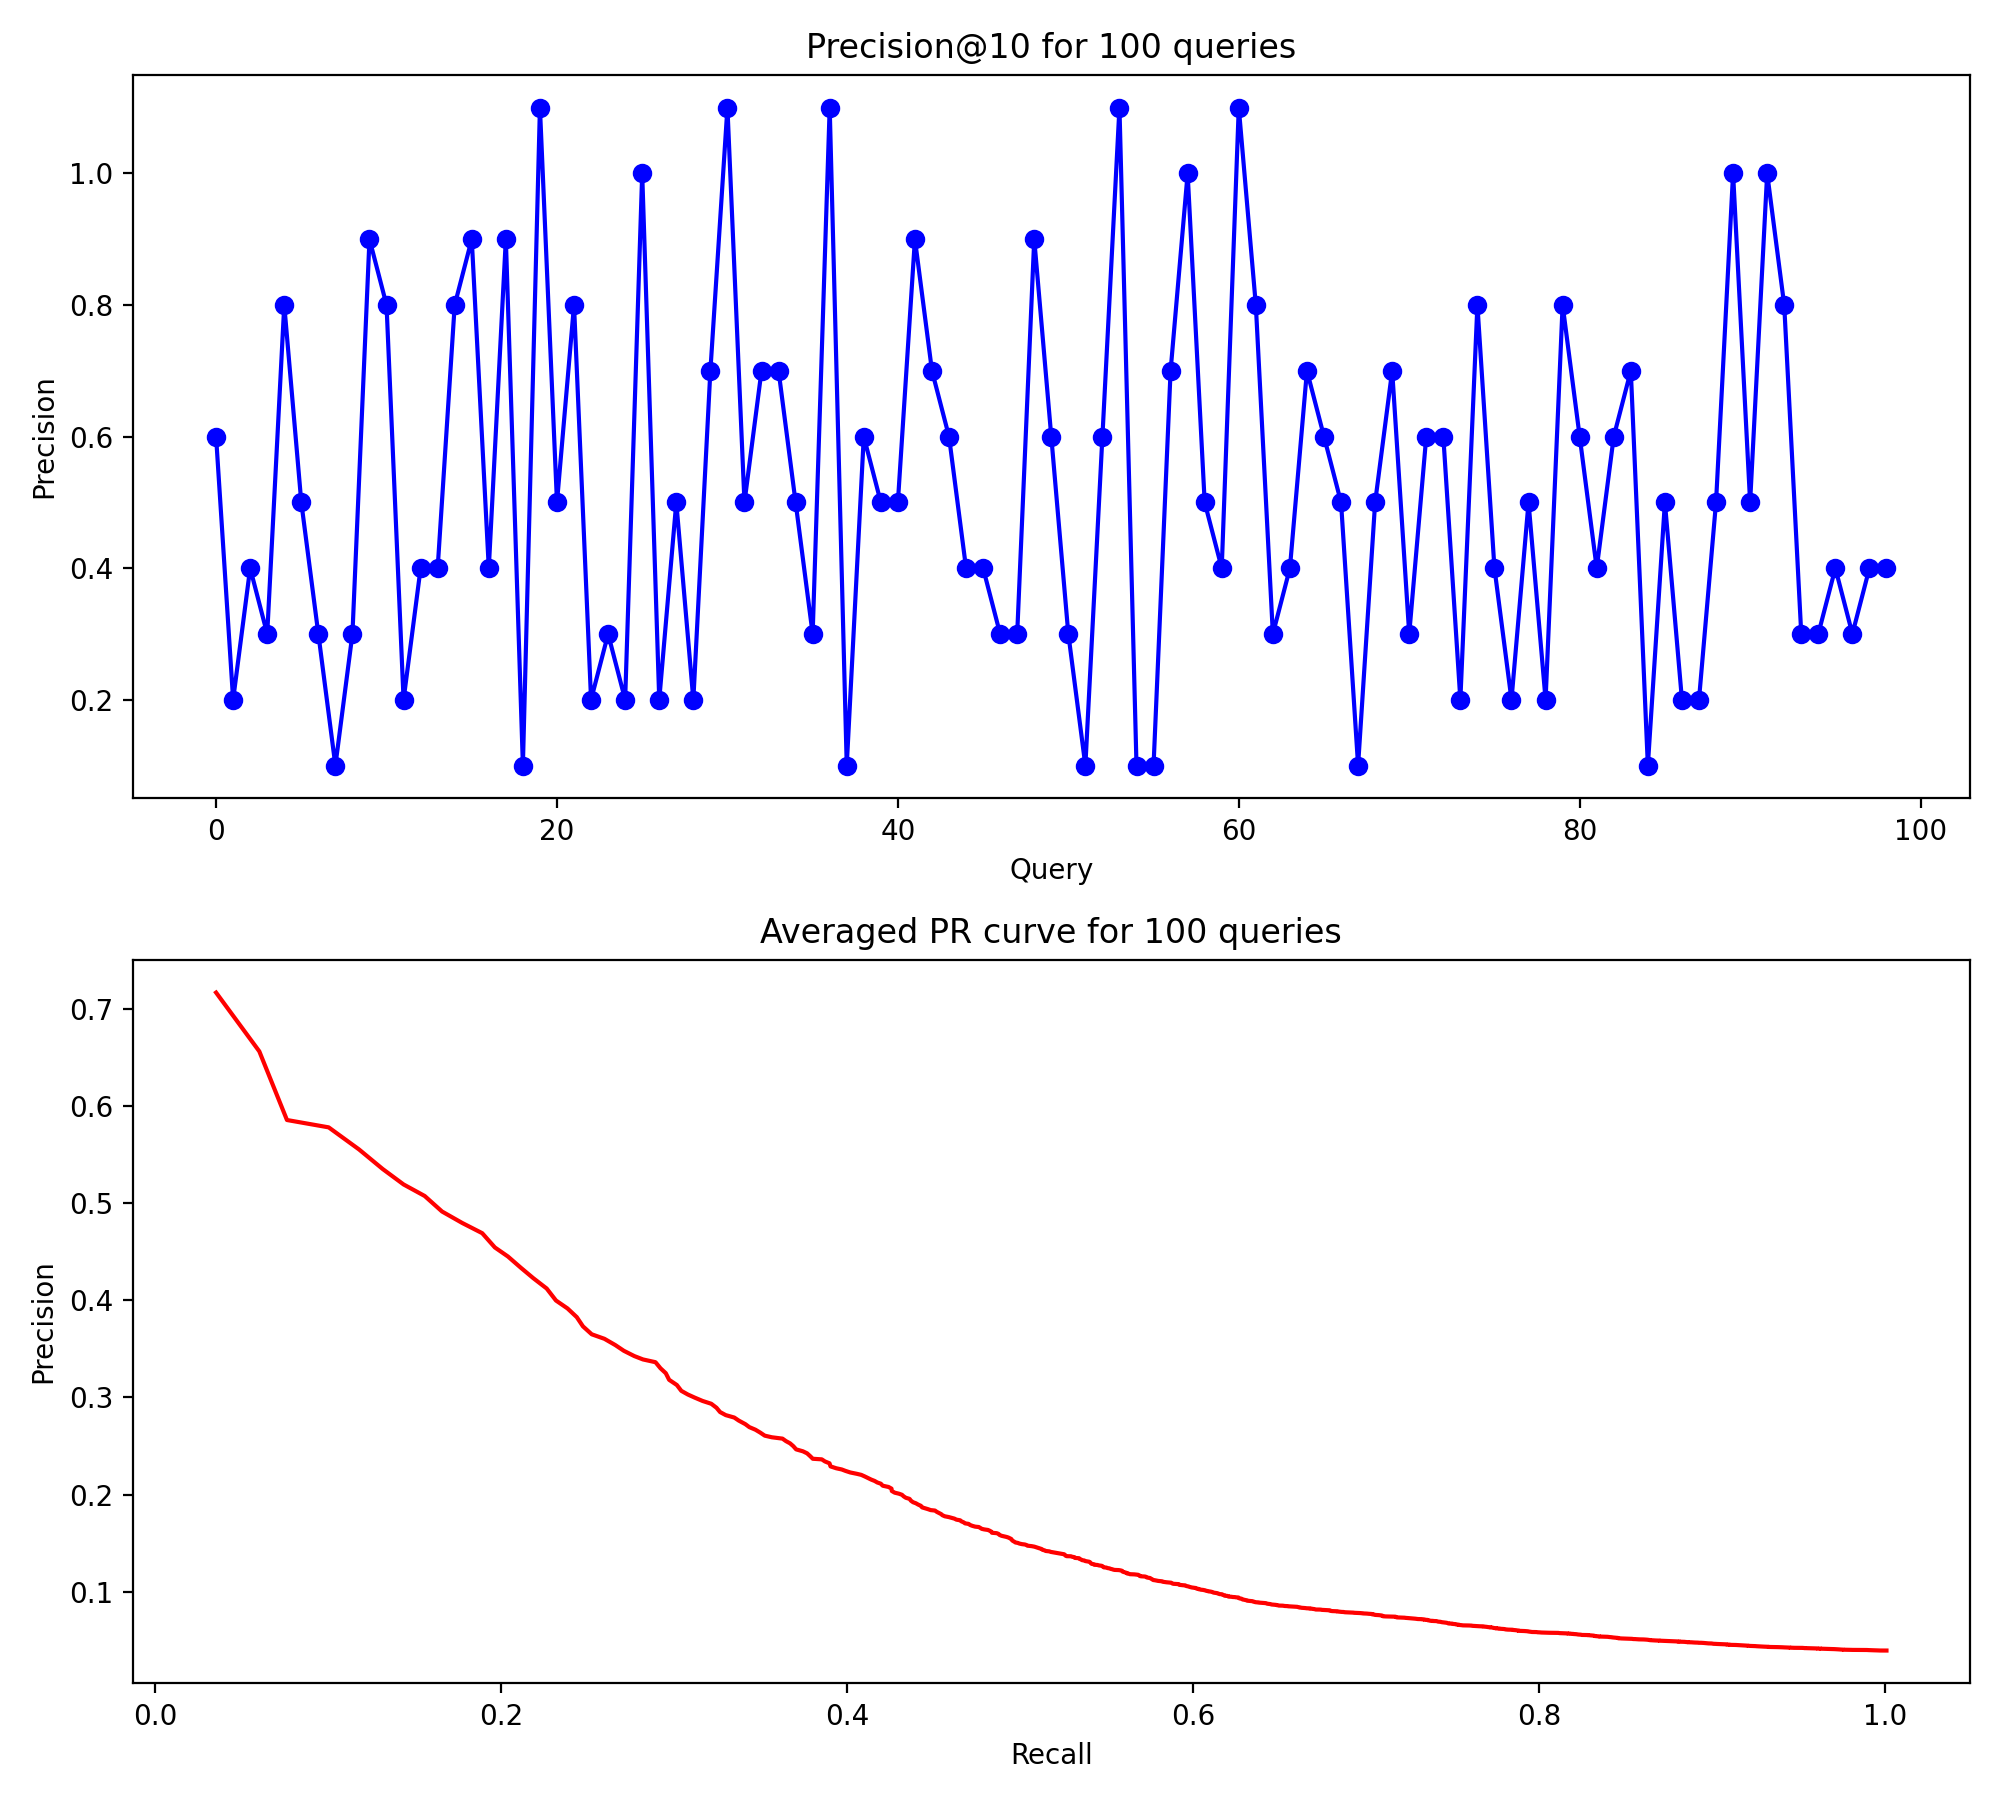
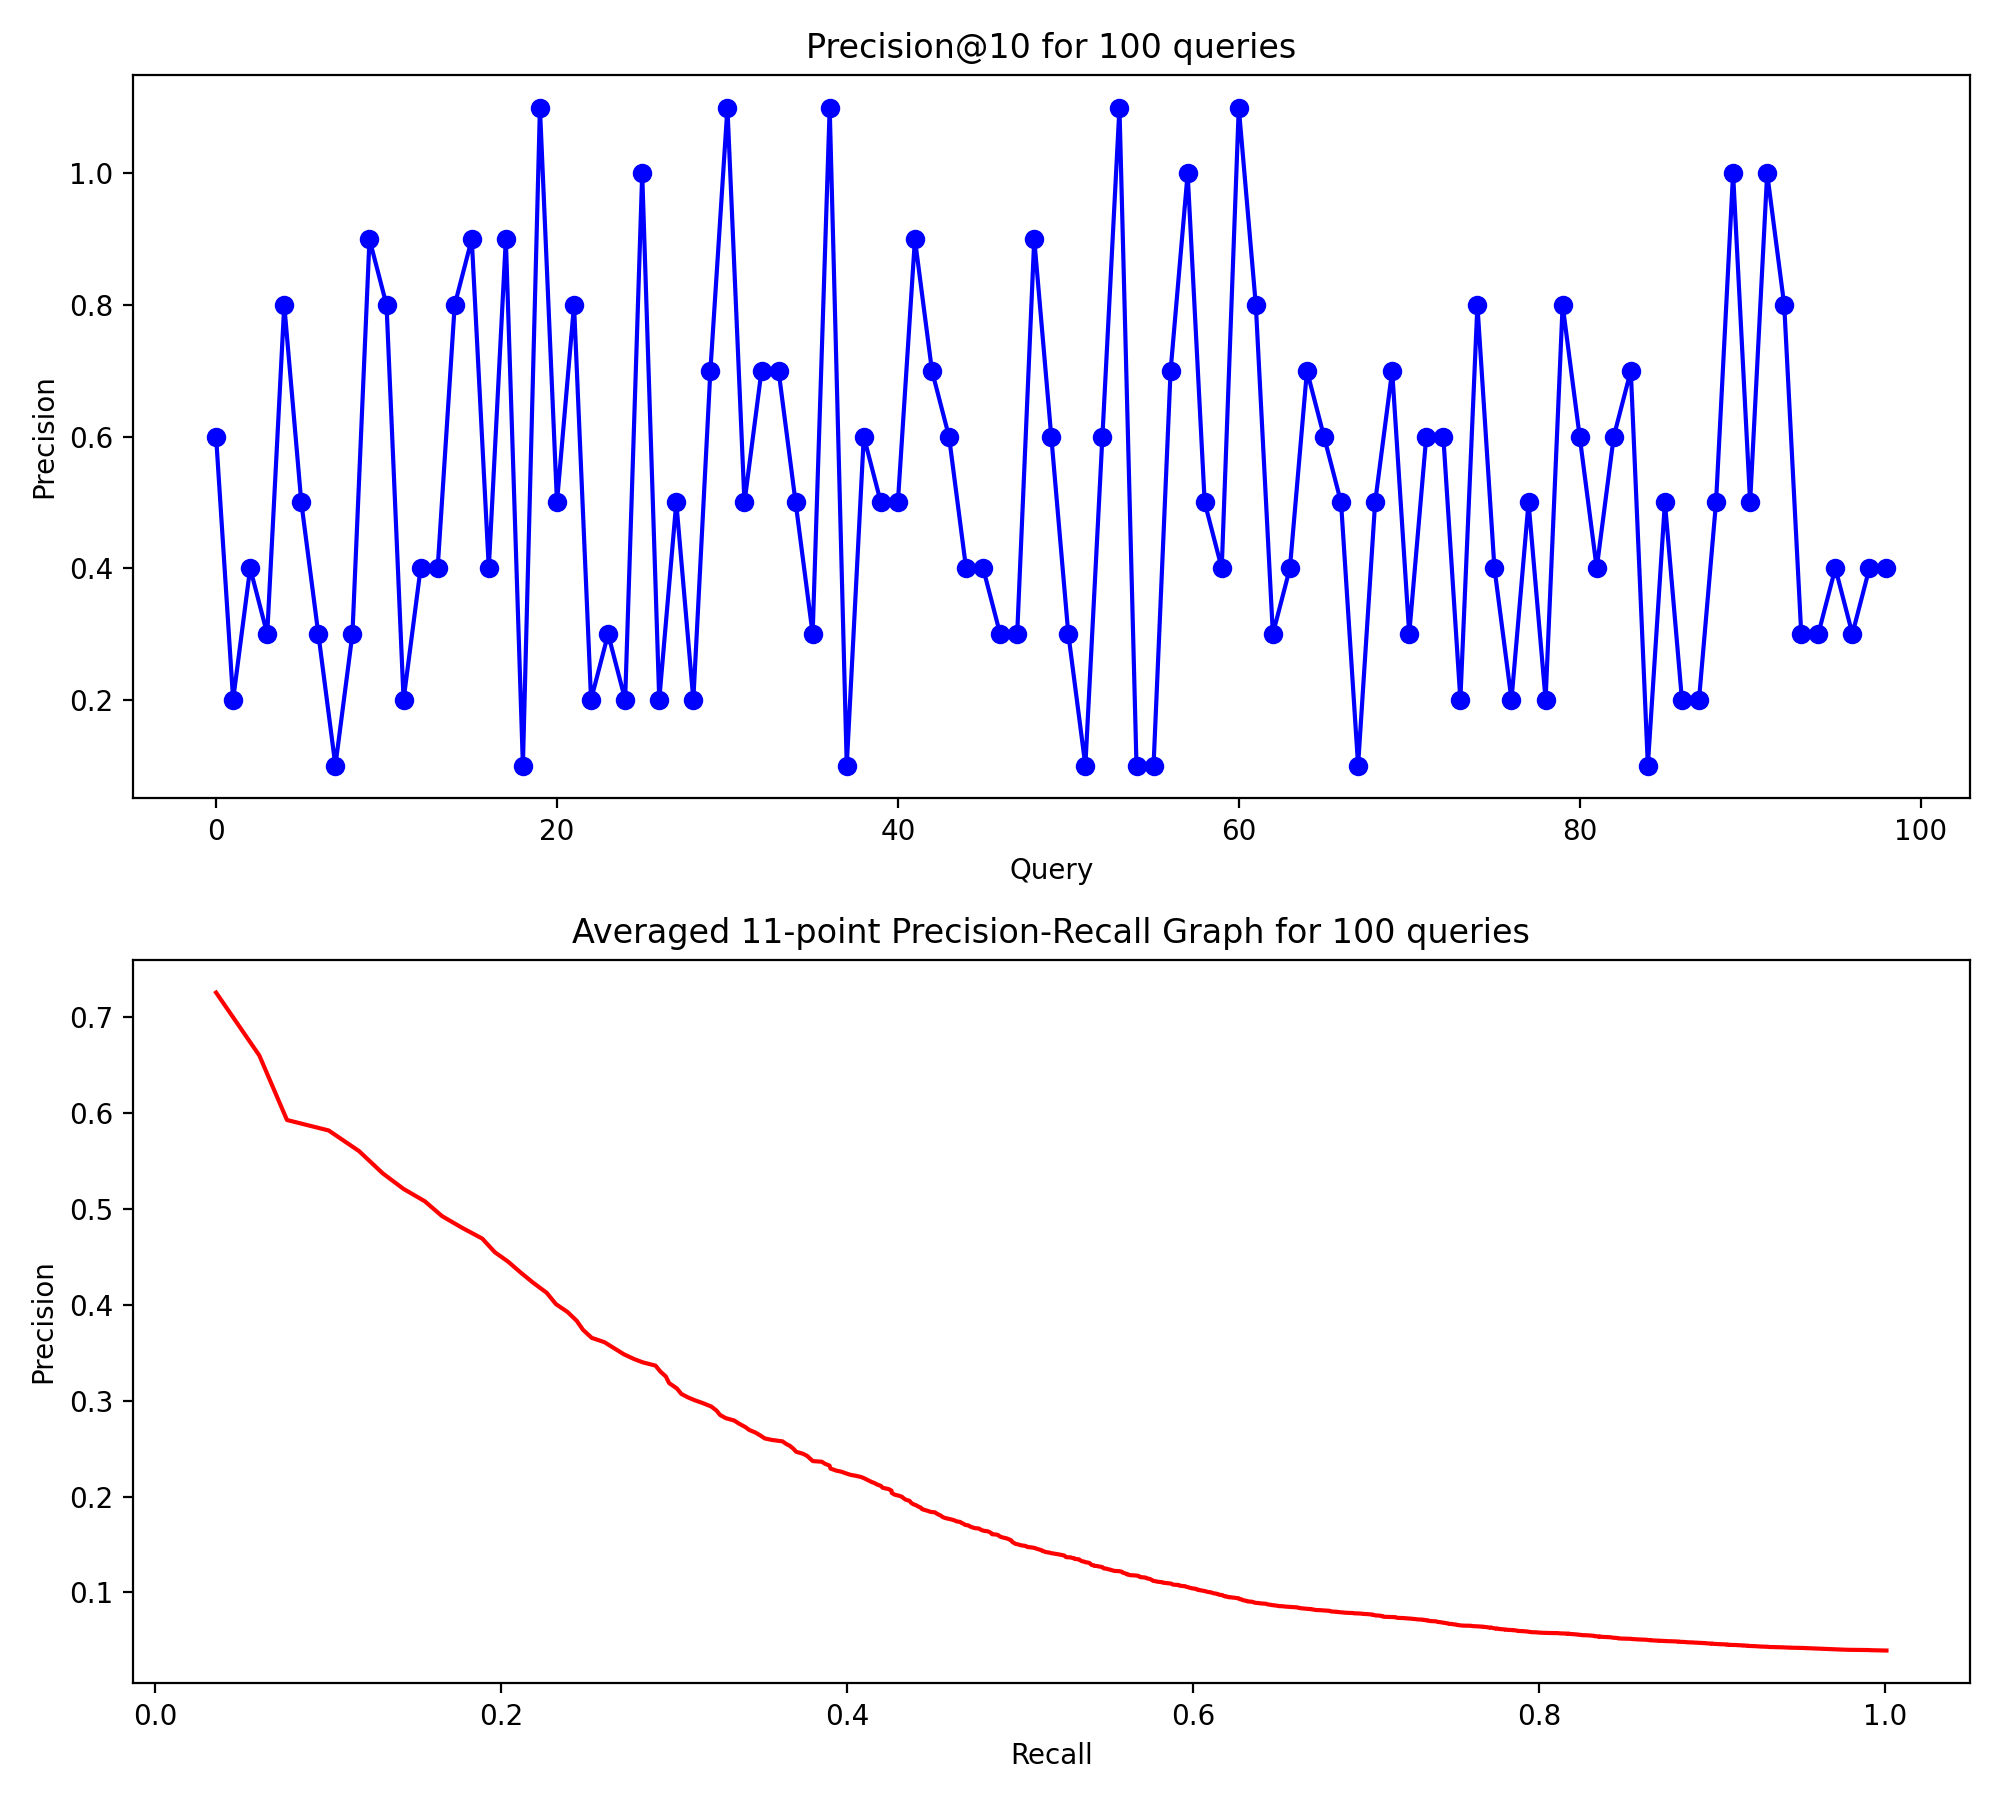
fixed graph label

diff --git a/src/webapp/uploads/search_result.html b/src/webapp/uploads/search_result.html
@@ -10,88 +10,88 @@
 </head>
 <body>
 <div class="container p-5">
-    <h2 class="text-info">What are the effects of calcium on the physical properties of mucus             from CF patients?</h2>
+    <h2 class="text-info">What factors are responsible for the appearance of mucoid strains of             Pseudomonas aeruginosa in CF patients?</h2>
     <hr>
     <ul class="list-group">
     
         <li class="list-group-item">
-            <h5>00533</h5>
+            <h5>00177</h5>
         </li>
     
         <li class="list-group-item">
-            <h5>00437</h5>
+            <h5>00912</h5>
         </li>
     
         <li class="list-group-item">
-            <h5>00856</h5>
+            <h5>00161</h5>
         </li>
     
         <li class="list-group-item">
-            <h5>00302</h5>
+            <h5>00007</h5>
         </li>
     
         <li class="list-group-item">
-            <h5>00827</h5>
+            <h5>00451</h5>
         </li>
     
         <li class="list-group-item">
-            <h5>00311</h5>
+            <h5>00884</h5>
         </li>
     
         <li class="list-group-item">
-            <h5>00439</h5>
+            <h5>00589</h5>
         </li>
     
         <li class="list-group-item">
-            <h5>00461</h5>
+            <h5>00479</h5>
         </li>
     
         <li class="list-group-item">
-            <h5>00052</h5>
+            <h5>01090</h5>
         </li>
     
         <li class="list-group-item">
-            <h5>00392</h5>
+            <h5>00176</h5>
         </li>
     
         <li class="list-group-item">
-            <h5>00499</h5>
+            <h5>00447</h5>
         </li>
     
         <li class="list-group-item">
-            <h5>00568</h5>
+            <h5>01227</h5>
         </li>
     
         <li class="list-group-item">
-            <h5>00441</h5>
+            <h5>00706</h5>
         </li>
     
         <li class="list-group-item">
-            <h5>00957</h5>
+            <h5>00265</h5>
         </li>
     
         <li class="list-group-item">
-            <h5>00741</h5>
+            <h5>00260</h5>
         </li>
     
         <li class="list-group-item">
-            <h5>00754</h5>
+            <h5>00778</h5>
         </li>
     
         <li class="list-group-item">
-            <h5>00497</h5>
+            <h5>00346</h5>
         </li>
     
         <li class="list-group-item">
-            <h5>00950</h5>
+            <h5>00802</h5>
         </li>
     
         <li class="list-group-item">
-            <h5>00593</h5>
+            <h5>00459</h5>
         </li>
     
         <li class="list-group-item">
-            <h5>00481</h5>
+            <h5>00080</h5>
         </li>
     
     </ul>

diff --git a/src/searchmodel/test.py b/src/searchmodel/test.py
@@ -108,6 +108,6 @@ plt.subplot(2, 1, 2)
 plt.plot(x_all_avg_recall, y_all_avg_precision, "r")
 plt.xlabel("Recall")
 plt.ylabel("Precision")
-plt.title("Averaged PR curve for 100 queries")
+plt.title("Averaged 11-point Precision-Recall Graph for 100 queries")
 fig.tight_layout()
-plt.savefig("./documents/plot.png", dpi=200)
+plt.savefig("./documents/plots.png", dpi=200)
